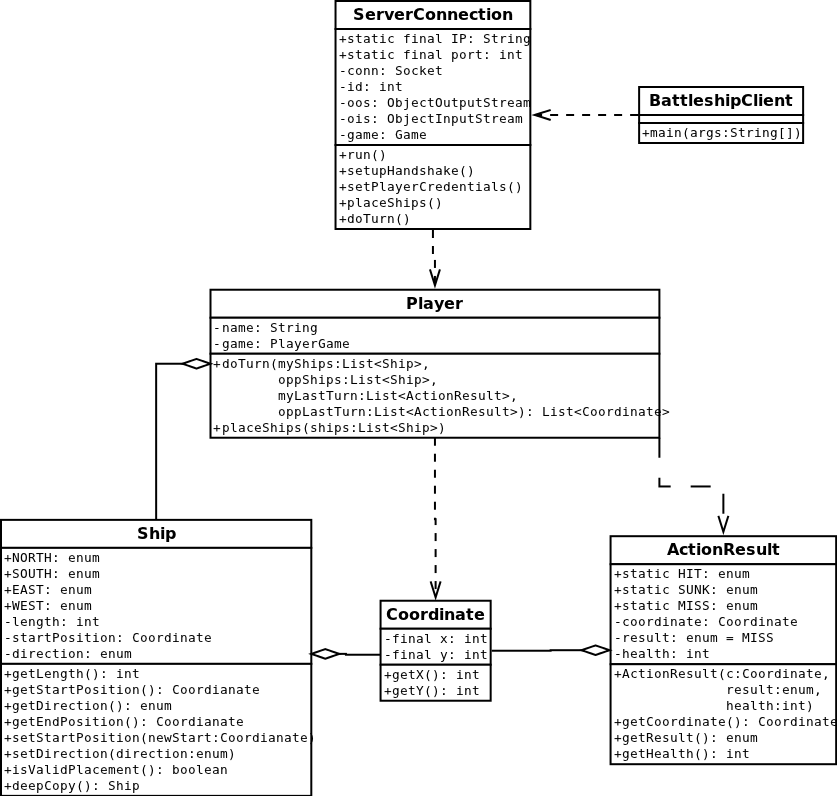
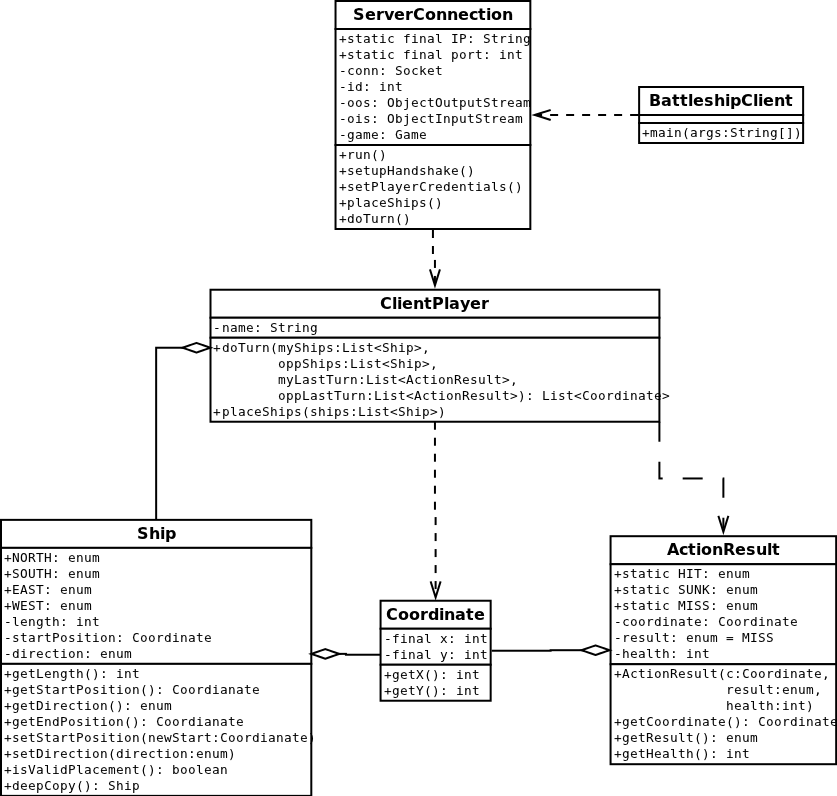
Updated UMLs, but code needs major overhaul.

Changed region(s): [[0.1864, 0.4221, 0.8076, 0.603], [0.4349, 0.3618, 0.5902, 0.392], [0.8387, 0.603, 0.8698, 0.6332]]

diff --git a/src/battlechallenge/poc/MyObjectServer.java b/src/battlechallenge/poc/MyObjectServer.java
@@ -1,0 +1,70 @@
+package battlechallenge.poc;
+
+import java.io.*;
+import java.net.*;
+import java.util.*;
+
+public class MyObjectServer extends Thread {
+
+	private ServerSocket dateServer;
+
+	public static void main(String argv[]) throws Exception {
+		new MyObjectServer();
+	}
+
+	public MyObjectServer() throws Exception {
+		dateServer = new ServerSocket(3000);
+		System.out.println("Server listening on port 3000.");
+		this.start();
+	}
+
+	public void run() {
+		while (true) {
+			try {
+				System.out.println("Waiting for connections.");
+				Socket client = dateServer.accept();
+				System.out.println("Accepted a connection from: "
+						+ client.getInetAddress());
+				new Connect(client);
+			} catch (Exception e) {
+			}
+		}
+	}
+}
+
+class Connect extends Thread {
+	private Socket client = null;
+	private ObjectInputStream ois = null;
+	private ObjectOutputStream oos = null;
+
+	public Connect() {
+	}
+
+	public Connect(Socket clientSocket) {
+		client = clientSocket;
+		try {
+			ois = new ObjectInputStream(client.getInputStream());
+			oos = new ObjectOutputStream(client.getOutputStream());
+		} catch (Exception e1) {
+			try {
+				client.close();
+			} catch (Exception e) {
+				System.out.println(e.getMessage());
+			}
+			return;
+		}
+		this.start();
+	}
+
+	public void run() {
+		try {
+			oos.writeObject(new Date());
+			oos.flush();
+			// close streams and connections
+			ois.close();
+			oos.close();
+			client.close();
+		} catch (Exception e) {
+		}
+	}
+}

diff --git a/src/battlechallenge/server/ClientConnection.java b/src/battlechallenge/server/ClientConnection.java
@@ -33,15 +33,6 @@ public class ClientConnection {
 	/** The Constant SERVER_REQUEST_TURN. */
 	public static final String SERVER_REQUEST_TURN;
 	
-	/** The Constant SERVER_RESULT_HIT. */
-	public static final String SERVER_RESULT_HIT;
-	
-	/** The Constant SERVER_RESULT_SUNK. */
-	public static final String SERVER_RESULT_SUNK;
-	
-	/** The Constant SERVER_RESULT_MISS. */
-	public static final String SERVER_RESULT_MISS;
-	
 	/** The Constant SERVER_RESULT_DISQUALIFIED. */
 	public static final String SERVER_RESULT_DISQUALIFIED;
 	
@@ -58,9 +49,6 @@ public class ClientConnection {
 		SERVER_REQUEST_NAME = "N";
 		SERVER_REQUEST_PLACE_SHIPS = "P";
 		SERVER_REQUEST_TURN = "T";
-		SERVER_RESULT_HIT = "H";
-		SERVER_RESULT_SUNK = "S";
-		SERVER_RESULT_MISS = "M";
 		SERVER_RESULT_DISQUALIFIED = "D";
 		SERVER_RESULT_WINNER = "W";
 		SERVER_RESULT_LOSER= "L";

diff --git a/src/battlechallenge/poc/MyObjectClient.java b/src/battlechallenge/poc/MyObjectClient.java
@@ -1,0 +1,32 @@
+package battlechallenge.poc;
+
+import java.io.ObjectInputStream;
+import java.io.ObjectOutputStream;
+import java.net.Socket;
+import java.util.Date;
+
+public class MyObjectClient {
+
+	public static void main(String argv[]) {
+		ObjectOutputStream oos = null;
+		ObjectInputStream ois = null;
+		Socket socket = null;
+		Date date = null;
+		try {
+			// open a socket connection
+			socket = new Socket("127.0.0.1", 3000);
+			// open I/O streams for objects
+			oos = new ObjectOutputStream(socket.getOutputStream());
+			ois = new ObjectInputStream(socket.getInputStream());
+			// read an object from the server
+			date = (Date) ois.readObject();
+			System.out.print("The date is: " + date);
+			oos.close();
+			ois.close();
+			Thread.sleep(2000);
+		} catch (Exception e) {
+			System.out.println(e.getMessage());
+		}
+	}
+
+}

diff --git a/src/battlechallenge/Ship.java b/src/battlechallenge/Ship.java
@@ -4,7 +4,6 @@ import java.io.Serializable;
 
 import battlechallenge.server.Board;
 
-// TODO: Auto-generated Javadoc
 /**
  * The Class Ship. A data holder representing ships from the original game battleship.
  */
